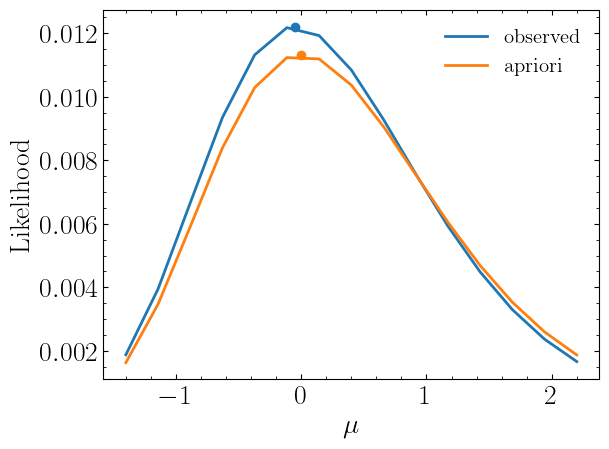
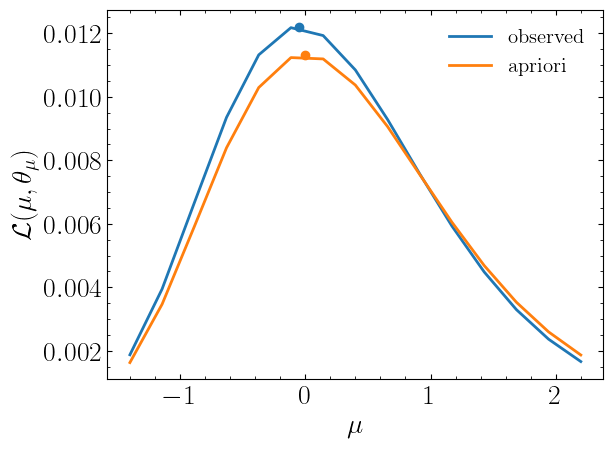
extend documentation

diff --git a/docs/quick_start.rst b/docs/quick_start.rst
@@ -7,7 +7,7 @@ Installation
 
 .. code-block:: bash
 
-    $ pip install spey
+    >>> pip install spey
 
 
 Python >=3.8 is required. spey heavily relies on `numpy <https://numpy.org/doc/stable/>`_, 
@@ -43,22 +43,66 @@ Default plug-ins
   The Multivariate Normal distribution is constructed by the help of a covariance matrix 
   provided by the user which captures the uncertainties and background correlations between 
   each histogram bin. This statistical model has been first proposed in 
-  `JHEP 04 (2019), 064 <https://doi.org/10.1007/JHEP04%282019%29064>`_.
+  `JHEP 04 (2019), 064 <https://doi.org/10.1007/JHEP04%282019%29064>`_. The probability 
+  distribution of a simplified likelihood can be formed as follows;
+
+  .. math:: 
+
+        \mathcal{L}(\mu,\theta) = \underbrace{\left[\prod_i^N {\rm Poiss}\left(n^i_{obs} | \lambda_i(\mu, \theta)\right) \right]}_{\rm main\ model}
+        \cdot \underbrace{\mathcal{N}(\theta | 0, \Sigma)}_{\rm constraint\ model}
+
+  Here the first term is the so-called main model based on Poisson distribution centred around 
+  :math:`\lambda_i(\mu, \theta) = \mu n^i_{sig} + \theta + n^i_{bkg}` and the second term is the 
+  multivariate normal distribution centred around zero with the standard deviation of :math:`\Sigma`
+  which, for multi-modal input, is covariance matrix.
 
 * ``'simplified_likelihoods.third_moment_expansion'``: Third moment expansion follows the above 
-  simplified likelihood construction and modifies the covariance matrix via third moment input.
+  simplified likelihood construction and modifies the :math:`\lambda` and :math:`\Sigma`. 
+  Using the expected background yields, :math:`m^{(1)}_i`, diagonal elements of the third moments, 
+  :math:`m^{(3)}_i` and the covariance matrix, :math:`m^{(2)}_{ij}`, one can write a modified 
+  correlation matrix and :math:`\lambda` function as follows
+
+  .. math:: 
+
+        C_i &= -sign(m^{(3)}_i) \sqrt{2 m^{(2)}_{ii}} \cos\left( \frac{4\pi}{3} + \frac{1}{3}\arctan\left(\sqrt{ \frac{8(m^{(2)}_{ii})^3}{(m^{(3)}_i)^2} - 1}\right) \right)
+        
+        B_i &= \sqrt{m^{(2)}_{ii} - 2 C_i^2}
+
+        A_i &=  m^{(1)}_i - C_i
+
+        \rho_{ij} &= \frac{1}{4C_iC_j} \left( \sqrt{(B_iB_j)^2 + 8C_iC_jm^{(2)}_{ij}} - B_iB_j \right)
+
+  which further modifies :math:`\lambda_i(\mu, \theta) = \mu n^i_{sig} + A_i + B_i \theta_i + C_i \theta_i^2`
+  and the multivariate normal has been modified via the inverse of the correlation matrix, 
+  :math:`\mathcal{N}(\theta | 0, \rho^{-1})`. See `JHEP 04 (2019), 064 <https://doi.org/10.1007/JHEP04%282019%29064>`_
+  Sec. 2 for details.
 
 * ``'simplified_likelihoods.uncorrelated_background'``: User can use multi or single bin histograms 
   with unknown correlation structure within simplified likelihood interface. This particular 
   plug-in replaces Multivariate Normal distribution of the likelihood with a simple Normal 
   distribution to reduce the computational cost.
 
+  .. math:: 
+
+        \mathcal{L}_{\rm constraint}(\theta) = \prod_i^N \mathcal{N}(\theta_i | 0, \sigma_i)
+
 * ``'simplified_likelihoods.variable_gaussian'``: Variable Gaussian method is designed to capture 
   asymetric uncertainties on the background yields. This method converts the covariance matrix in 
-  to a function which takes upper and lower envelops of the background uncertainties, best fit 
-  values and nuisance parameters which allows the interface dynamically change the covariance 
+  to a function which takes absolute upper (:math:`\sigma^+`) and lower (:math:`\sigma^-`) envelops of the 
+  background uncertainties, best fit values (:math:`\hat\theta`) and nuisance parameters 
+  (:math:`\theta`) which allows the interface dynamically change the covariance 
   matrix with respect to given nuisance parameters. This implementation follows the method 
-  proposed in `Ref. arXiv:physics/0406120 <https://arxiv.org/abs/physics/0406120>`_.
+  proposed in `Ref. arXiv:physics/0406120 <https://arxiv.org/abs/physics/0406120>`_. This approach
+  transforms the covariance matrix from a constant input to a function of nuisance parameters.
+
+  .. math:: 
+
+      \sigma^\prime &= \sqrt{\sigma^+\sigma^-  + (\sigma^+ - \sigma^-)(\theta - \hat\theta)}
+      
+      \Sigma(\theta) &= \sigma^\prime \otimes \rho \otimes \sigma^\prime
+
+  which further modifies the multivariate normal distribution this new covariance matrix
+  :math:`\mathcal{N}(\theta | 0, \Sigma) \to \mathcal{N}(\theta | 0, \Sigma(\theta))`. 
 
 Third-party plug-ins
 ~~~~~~~~~~~~~~~~~~~~
@@ -247,3 +291,6 @@ as follows
     :alt: Likelihood distribution for multi-bin statistical model.
 
 Notice the slight difference between likelihood distributions, this is because of the use of different expectation types.
+The dots on the likelihood distribution represents the point where likelihood is maximized. Since for an 
+:obj:`~spey.ExpectationType.apriori` likelihood distribution observed and background values are the same, the likelihood
+should peak at :math:`\mu=0`.

diff --git a/docs/api.rst b/docs/api.rst
@@ -9,15 +9,15 @@ Top-Level
 .. autosummary:: 
     :toctree: _generated/
 
-    spey.ExpectationType
-    spey.AvailableBackends
-    spey.get_backend
-    spey.get_backend_metadata
-    spey.get_uncorrelated_nbin_statistical_model
-    spey.get_correlated_nbin_statistical_model
-    spey.statistical_model_wrapper
-    spey.helper_functions.correlation_to_covariance
-    spey.helper_functions.covariance_to_correlation
+    ExpectationType
+    AvailableBackends
+    get_backend
+    get_backend_metadata
+    get_uncorrelated_nbin_statistical_model
+    get_correlated_nbin_statistical_model
+    statistical_model_wrapper
+    helper_functions.correlation_to_covariance
+    helper_functions.covariance_to_correlation
 
 Main Classes
 ------------
@@ -55,22 +55,24 @@ Statistical Model Combiner
 Hypothesis testing
 ------------------
 
+.. currentmodule:: spey.hypothesis_testing
+
 .. autosummary:: 
     :toctree: _generated/
 
-    spey.hypothesis_testing.test_statistics.qmu
-    spey.hypothesis_testing.test_statistics.qmu_tilde
-    spey.hypothesis_testing.test_statistics.q0
-    spey.hypothesis_testing.test_statistics.get_test_statistic
-    spey.hypothesis_testing.test_statistics.compute_teststatistics
-    spey.hypothesis_testing.upper_limits.find_poi_upper_limit
-    spey.hypothesis_testing.upper_limits.find_root_limits
-    spey.hypothesis_testing.utils.pvalues
-    spey.hypothesis_testing.utils.expected_pvalues
-    spey.hypothesis_testing.distributions.AsymptoticTestStatisticsDistribution
-    spey.hypothesis_testing.distributions.EmpricTestStatisticsDistribution
-    spey.hypothesis_testing.asymptotic_calculator.compute_asymptotic_confidence_level
-    spey.hypothesis_testing.toy_calculator.compute_toy_confidence_level
+    test_statistics.qmu
+    test_statistics.qmu_tilde
+    test_statistics.q0
+    test_statistics.get_test_statistic
+    test_statistics.compute_teststatistics
+    upper_limits.find_poi_upper_limit
+    upper_limits.find_root_limits
+    utils.pvalues
+    utils.expected_pvalues
+    distributions.AsymptoticTestStatisticsDistribution
+    distributions.EmpricTestStatisticsDistribution
+    asymptotic_calculator.compute_asymptotic_confidence_level
+    toy_calculator.compute_toy_confidence_level
 
 Default Backends
 ----------------
@@ -78,26 +80,35 @@ Default Backends
 Simplified Likelihoods
 ~~~~~~~~~~~~~~~~~~~~~~
 
+.. currentmodule:: spey.backends.simplifiedlikelihood_backend
+
 .. autosummary:: 
     :toctree: _generated/
 
-    spey.backends.simplifiedlikelihood_backend.UncorrelatedBackground
-    spey.backends.simplifiedlikelihood_backend.SimplifiedLikelihoods
-    spey.backends.simplifiedlikelihood_backend.ThirdMomentExpansion
-    spey.backends.simplifiedlikelihood_backend.VariableGaussian
-    spey.backends.simplifiedlikelihood_backend.sldata.SLData
+    UncorrelatedBackground
+    SimplifiedLikelihoods
+    ThirdMomentExpansion
+    VariableGaussian
+    sldata.SLData
+    distributions.Poisson
+    distributions.Normal
+    distributions.MultivariateNormal
+    distributions.MainModel
+    distributions.ConstraintModel
 
 Exceptions
 ----------
+
+.. currentmodule:: spey.system.exceptions
 
 .. autosummary:: 
     :toctree: _generated/
     :nosignatures:
 
-    spey.system.exceptions.AnalysisQueryError
-    spey.system.exceptions.MethodNotAvailable
-    spey.system.exceptions.NegativeExpectedYields
-    spey.system.exceptions.PluginError
-    spey.system.exceptions.UnknownCrossSection
-    spey.system.exceptions.UnknownTestStatistics
-    spey.system.exceptions.CalculatorNotAvailable
+    AnalysisQueryError
+    MethodNotAvailable
+    NegativeExpectedYields
+    PluginError
+    UnknownCrossSection
+    UnknownTestStatistics
+    CalculatorNotAvailable
